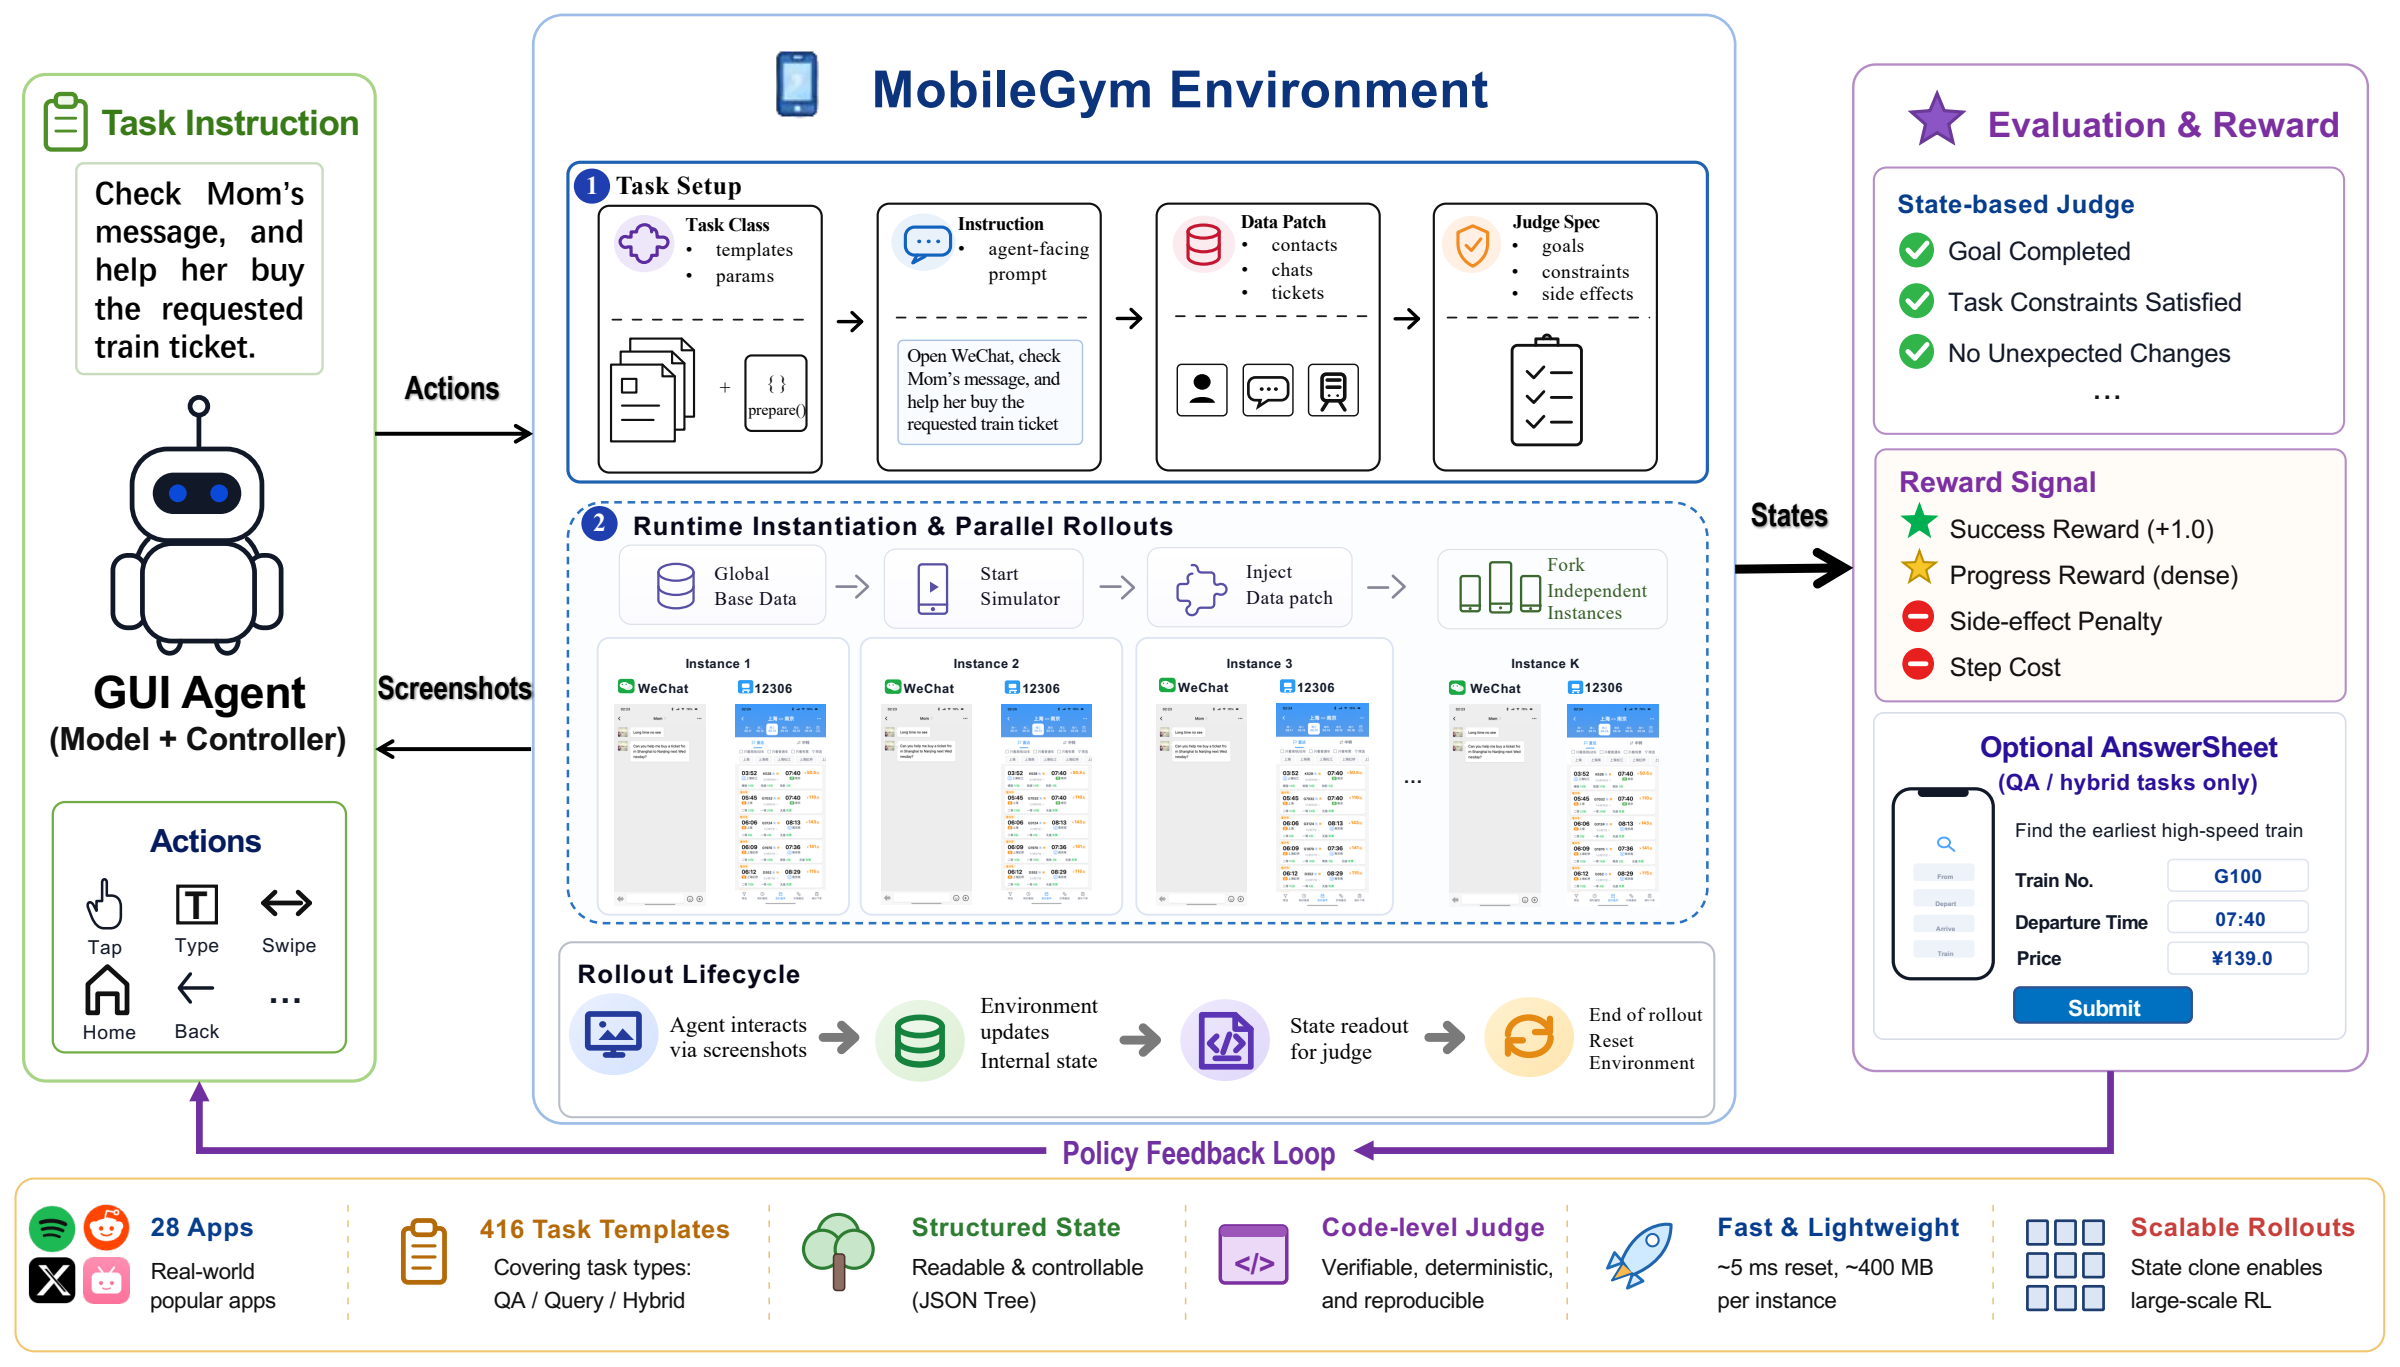
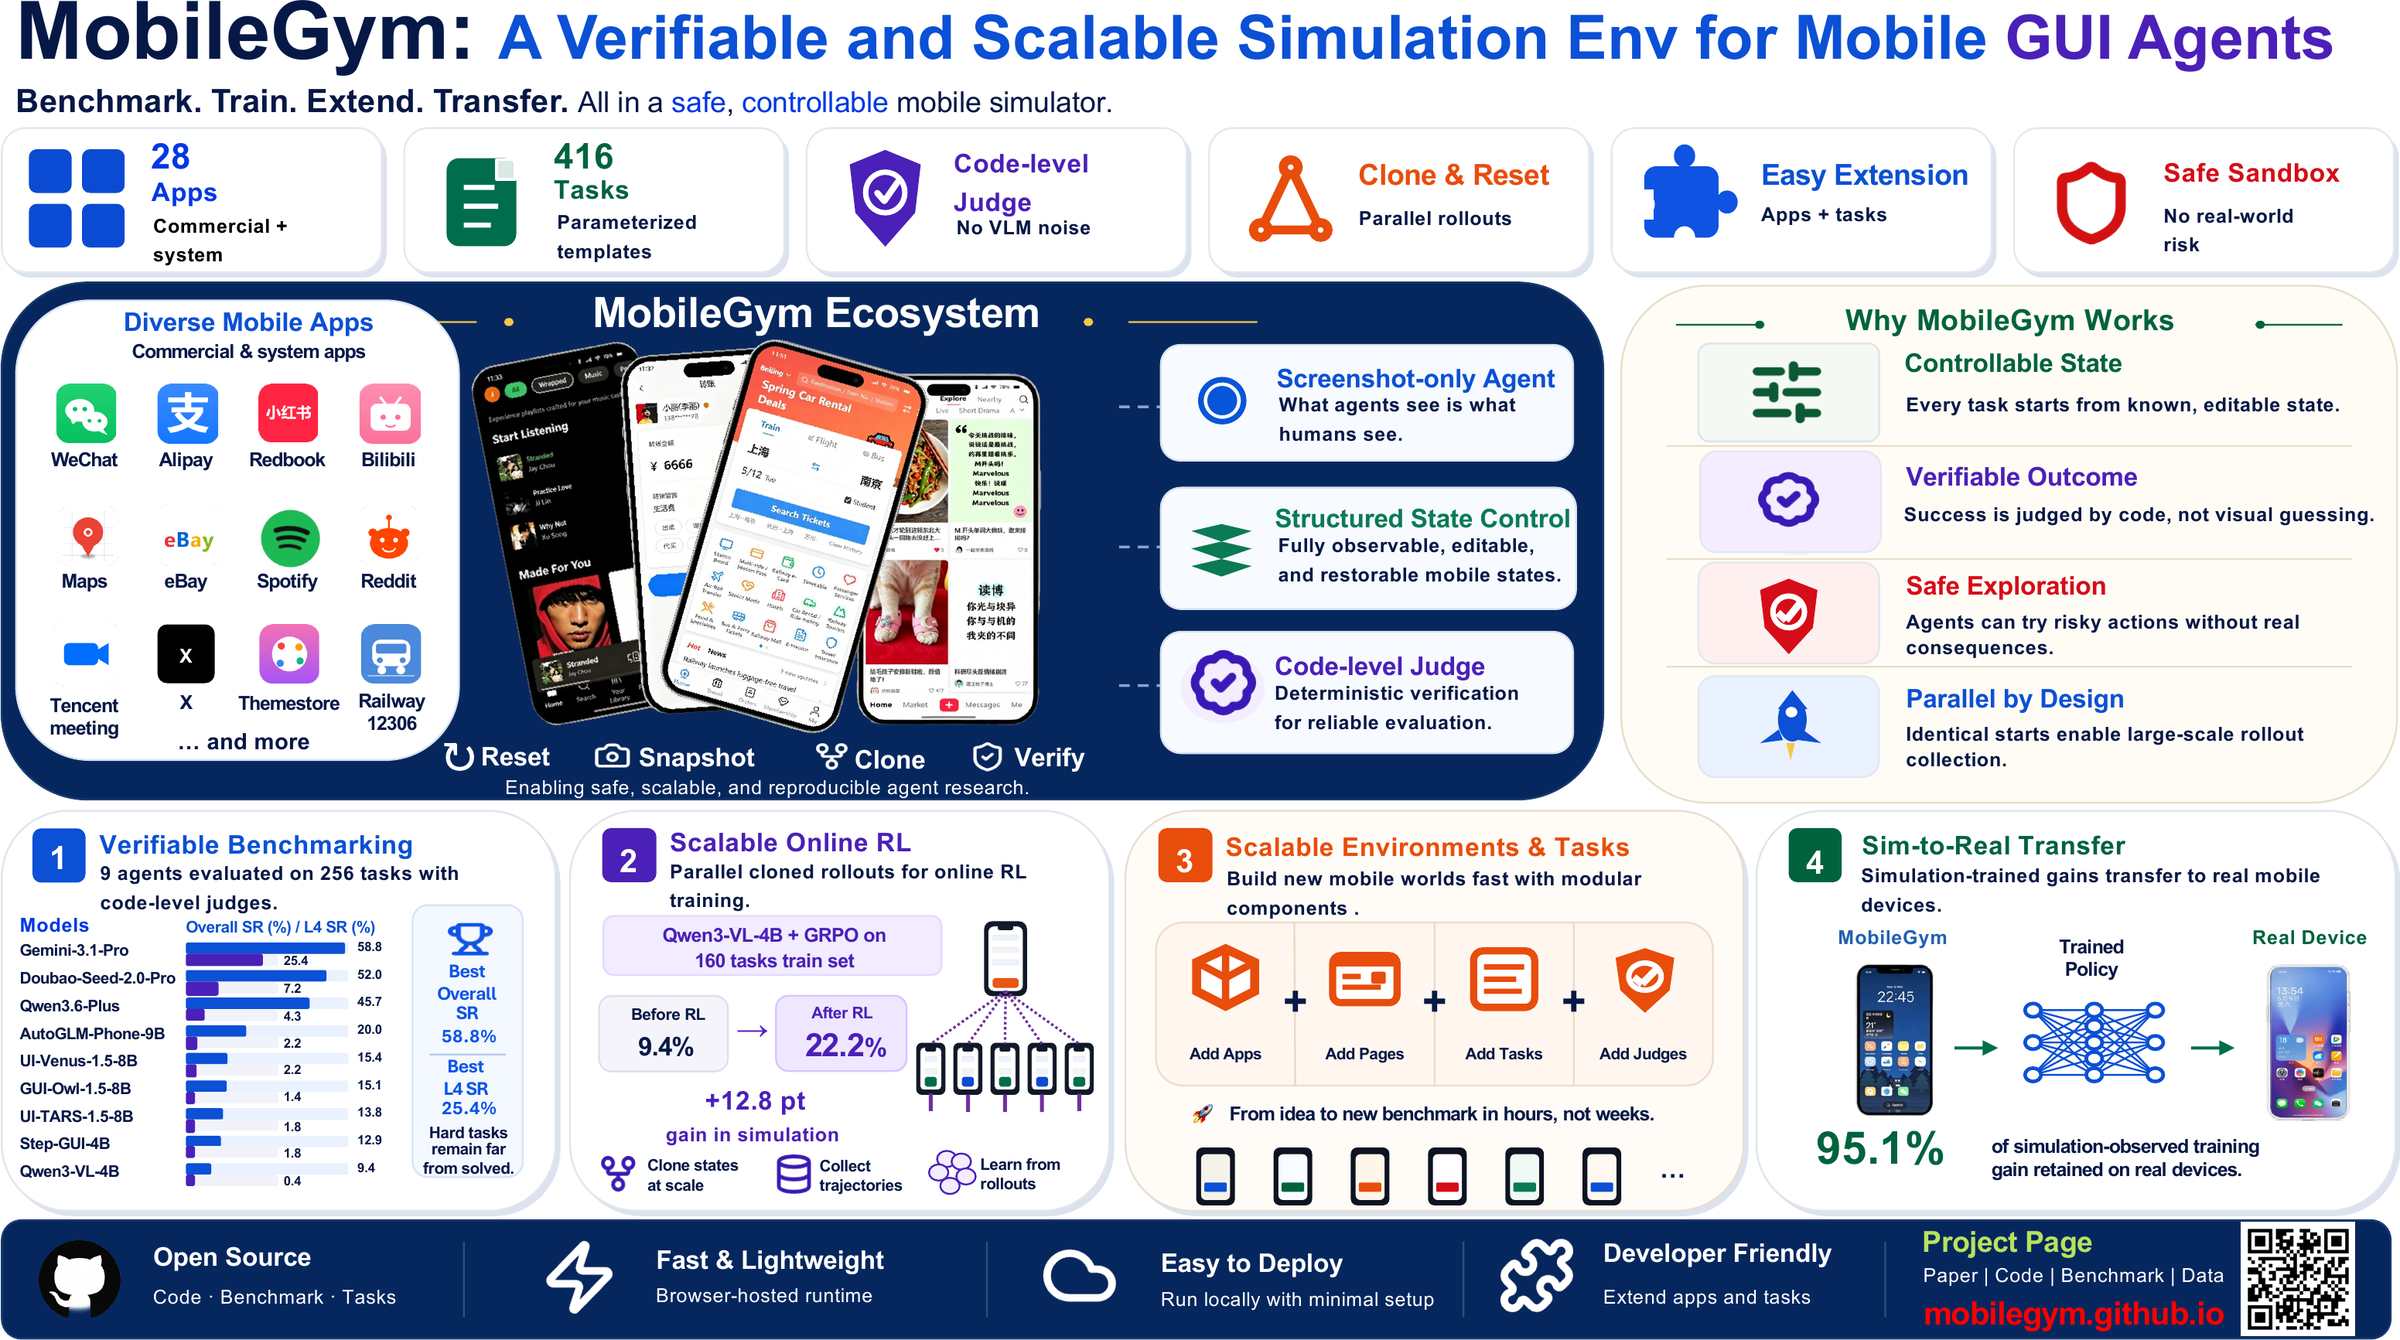
docs(web,readme): swap hero image to trimmed poster
Replace assets/teaser.png and web/figures/figure1.png with a rasterized
and white-margin-trimmed render of paper/emnlp_en/figures/poster.pdf.
Update READMEs' alt text and the landing page's og:image dimensions and
hero alt to describe the poster contents.

Source: poster.pdf -> pdftoppm 300dpi -> ImageMagick -trim -fuzz 5% ->
resize to 2400px (web) and 2000px (README).

diff --git a/web/index.html b/web/index.html
@@ -12,8 +12,8 @@
 <meta property="og:url" content="https://mobilegym.dev/paper/" />
 <meta property="og:image" content="https://mobilegym.dev/paper/figures/figure1.png" />
 <meta property="og:image:width" content="2400" />
-<meta property="og:image:height" content="1366" />
-<meta property="og:image:alt" content="MobileGym: GUI agent interacts with the simulator via screenshots and actions; the environment performs task setup and parallel rollouts; a state-based judge produces reward signals and an optional AnswerSheet." />
+<meta property="og:image:height" content="1340" />
+<meta property="og:image:alt" content="MobileGym poster: a verifiable and scalable simulation environment for mobile GUI agents — 28 apps, 416 parameterized task templates, code-level judge, parallel rollouts, easy extension, safe sandbox, and +40.7 pt sim-to-real transfer." />
 <meta name="twitter:card" content="summary_large_image" />
 <meta name="twitter:title" content="MobileGym: A Verifiable and Scalable Simulation Environment for Mobile GUI Agent Research" />
 <meta name="twitter:description" content="28 apps, 416 parameterized task templates, code-level state verification, scalable online RL, +40.7 pt Sim-to-Real." />
@@ -691,7 +691,7 @@
 <!-- ============================================================ -->
 <section class="container-narrow mx-auto px-6 py-10 border-t border-stone-200">
   <figure class="space-y-3">
-    <img src="figures/figure1.png" alt="MobileGym overview pipeline: a GUI agent interacts with the MobileGym environment via screenshots and actions; the environment performs Task Setup and parallel rollouts; a state-based judge produces reward signals and an optional AnswerSheet."
+    <img src="figures/figure1.png" alt="MobileGym poster: a verifiable and scalable simulation environment for mobile GUI agents — 28 apps, 416 parameterized task templates, code-level judge, parallel rollouts, easy extension, safe sandbox, and +40.7 pt sim-to-real transfer."
          class="w-full rounded-lg border border-stone-200 shadow-sm" />
     <figcaption class="text-sm leading-relaxed text-stone-600 ui">
       <strong class="text-stone-900">Overview.</strong>

diff --git a/README.md b/README.md
@@ -13,7 +13,7 @@
 [![Python](https://img.shields.io/badge/python-%E2%89%A53.10-3776ab.svg)](https://www.python.org/)
 
 <p align="center">
-  <img src="assets/teaser.png" width="100%" alt="MobileGym teaser — one structured JSON state powers task instantiation, parallel rollouts, state-diff verification, and the production of benchmark metrics and RL rewards."/>
+  <img src="assets/teaser.png" width="100%" alt="MobileGym poster — a verifiable and scalable simulation environment for mobile GUI agents: 28 apps, 416 parameterized task templates, code-level judge, parallel rollouts, easy extension, safe sandbox, and +40.7 pt sim-to-real transfer."/>
 </p>
 
 </div>

diff --git a/README.zh-CN.md b/README.zh-CN.md
@@ -14,7 +14,7 @@
 [![English](https://img.shields.io/badge/lang-English-blue.svg)](README.md)
 
 <p align="center">
-  <img src="assets/teaser.png" width="100%" alt="MobileGym teaser — 一份结构化 JSON 状态驱动任务实例化、并行采样、状态对比与 RL 奖励生成"/>
+  <img src="assets/teaser.png" width="100%" alt="MobileGym 海报——面向移动 GUI Agent 的可验证、可扩展模拟环境:28 个 App、416 个参数化任务模板、代码级判题、并行采样、便于扩展、安全沙盒,+40.7 pt 模拟到真机迁移"/>
 </p>
 
 </div>
